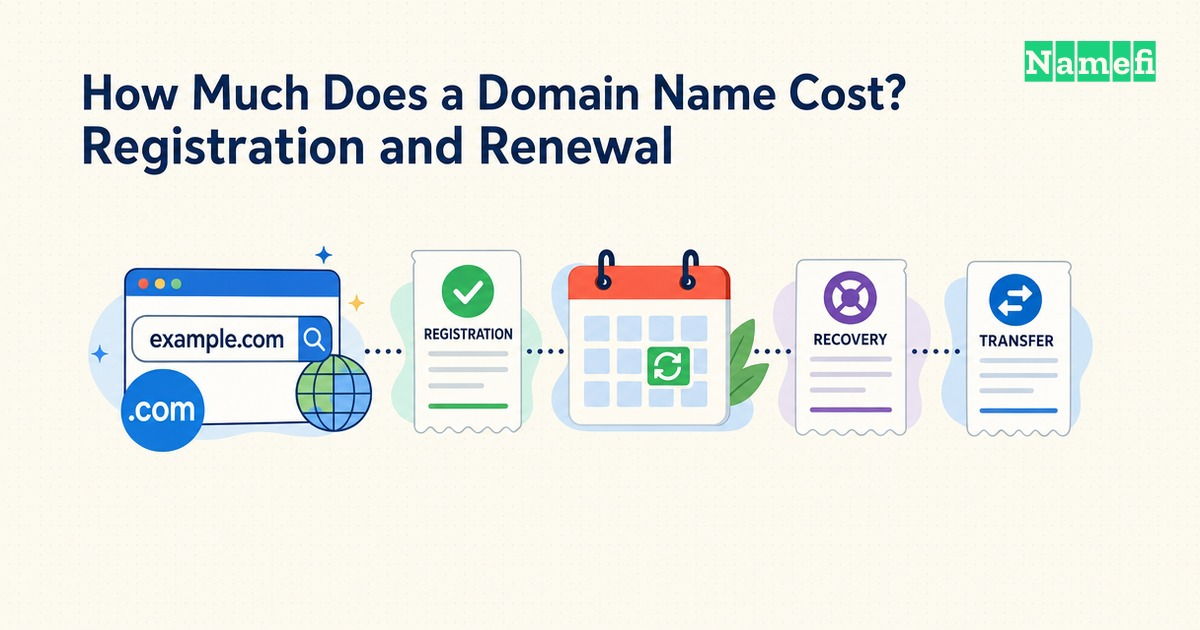
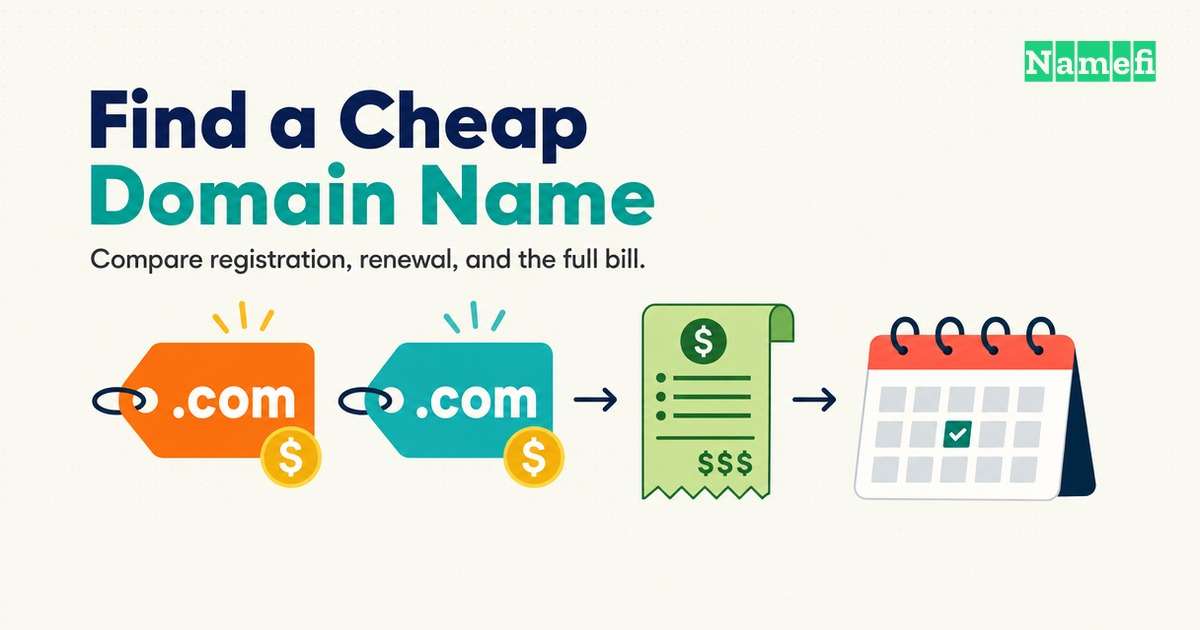
content: compare cheap domain purchases on equal terms [skip ci]

Changed region(s): [[0.0617, 0.3921, 0.925, 0.8143], [0.0617, 0.1206, 0.7708, 0.3619]]

diff --git a/content/blog/ta/how-much-is-a-domain-understanding-holding-cost.md b/content/blog/ta/how-much-is-a-domain-understanding-holding-cost.md
@@ -39,6 +39,16 @@ relatedGlossary:
 
 முதல் ஆண்டின் சலுகை விலை புதுப்பிப்பு விலையை நிர்ணயிக்காது. நீண்டகால [வைத்திருப்புச் செலவை](/ta/glossary/holding-cost/) ஒப்பிடுங்கள்.
 
+## ஒரே வாங்கும் நிபந்தனைகளை ஒப்பிட்டால் மலிவான டொமைனைத் தேர்ந்தெடுக்கலாம்
+
+ஒவ்வொரு பதிவாளரிடமும் ஒரே பெயர், நீட்சி, நாணயம், பதிவுக் காலம் ஆகியவற்றை ஒப்பிடுங்கள். பதிவுக் கட்டணத்தையும் புதுப்பிப்புக் கட்டணத்தையும் தனித்தனியாக எழுதுங்கள். பிரீமியம் பெயரைச் சாதாரண விலையுள்ள பெயருடன் ஒப்பிடாதீர்கள்.
+
+[Porkbun](https://porkbun.com/products/domains) பதிவு, புதுப்பிப்பு, இடமாற்ற விலைகளைத் தனித்தனி நெடுவரிசைகளில் வெளியிடுகிறது. [Cloudflare](https://www.cloudflare.com/domains/) பதிவு மற்றும் புதுப்பிப்பில் பதிவாளர் இலாபத்தைச் சேர்ப்பதில்லை என்று கூறுகிறது. Cloudflare தனது [பெயர் சேவையகங்களை](https://developers.cloudflare.com/registrar/get-started/register-domain/) பயன்படுத்த வேண்டும் என்று கோருகிறது. DNS தேர்வு சுதந்திரத்தை ஒப்பிடும்போது இந்த நிபந்தனையைக் கணக்கில் கொள்ளுங்கள்.
+
+குறைந்த மொத்தத் தொகையைத் தேர்ந்தெடுக்கும் முன் தேவையான சேவைகளின் செலவைச் சேருங்கள். இறுதி வாங்கும் பட்டியலில் வரிகளையும் விருப்பத் தயாரிப்புகளையும் சரிபாருங்கள். பதிவுச் சலுகை விலை மட்டும் நீண்ட காலத்தில் மலிவான தேர்வைக் காட்டாது.
+
+ஆதாரங்களைச் சரிபார்த்த நாள்: 22 அக்டோபர் 2026. விலைகளும் நிபந்தனைகளும் மாறலாம்.
+
 ## முதலில் காட்டப்படும் எண்ணே மொத்தச் செலவு அல்ல
 
 "ஒரு டொமைனுக்கு எவ்வளவு செலவாகும்?" என்று கேட்கும் பெரும்பாலோர் ஒரே ஒரு பதிலை எதிர்பார்க்கிறார்கள். அதைவிடச் சிறந்த கேள்வி: "இந்தப் பெயரை நான் மூன்று ஆண்டுகள் வைத்திருந்து, அந்தக் காலத்தில் ஒரு முறை ஏதாவது தவறு நேர்ந்தால், மொத்தமாக எவ்வளவு செலவாகும்?"

diff --git a/content/blog/hi/how-much-is-a-domain-understanding-holding-cost.md b/content/blog/hi/how-much-is-a-domain-understanding-holding-cost.md
@@ -39,6 +39,16 @@ relatedGlossary:
 
 पहले वर्ष का रियायती मूल्य नवीनीकरण का मूल्य तय नहीं करता। लंबे समय की [होल्डिंग लागत](/hi/glossary/holding-cost/) की तुलना करें।
 
+## एक जैसी खरीद की तुलना से सस्ता डोमेन मिल सकता है
+
+अलग-अलग रजिस्ट्रार पर एक ही नाम, एक्सटेंशन, मुद्रा और पंजीकरण अवधि की तुलना करें। पंजीकरण और नवीनीकरण की कीमतें अलग लिखें। प्रीमियम नाम की तुलना मानक कीमत वाले नाम से न करें।
+
+[Porkbun](https://porkbun.com/products/domains) पंजीकरण, नवीनीकरण और स्थानांतरण की कीमतें अलग स्तंभों में दिखाता है। [Cloudflare](https://www.cloudflare.com/domains/) के अनुसार पंजीकरण और नवीनीकरण में रजिस्ट्रार का अतिरिक्त लाभ नहीं जुड़ता। Cloudflare के लिए [Cloudflare नेमसर्वर](https://developers.cloudflare.com/registrar/get-started/register-domain/) जरूरी हैं। DNS बदलने की सुविधा की तुलना में इस शर्त को शामिल करें।
+
+सबसे कम कुल कीमत चुनने से पहले जरूरी सेवाओं का खर्च जोड़ें। अंतिम कार्ट में कर और वैकल्पिक उत्पाद जाँचें। केवल पंजीकरण की प्रचार कीमत से लंबे समय का सबसे सस्ता विकल्प तय नहीं होता।
+
+स्रोत जाँच की तारीख: 22 अक्टूबर 2026। कीमतें और शर्तें बदल सकती हैं।
+
 ## सबसे पहले दिखने वाली संख्या असली लागत नहीं है
 
 ज़्यादातर लोग पूछते हैं, “डोमेन की कीमत कितनी है?” और एक ही जवाब की उम्मीद करते हैं। बेहतर सवाल यह है: “अगर मैं इस नाम को तीन साल तक रखूं और एक बार कोई गड़बड़ी हो जाए, तो मुझे कुल कितना खर्च करना पड़ेगा?”

diff --git a/content/blog/ar/how-much-is-a-domain-understanding-holding-cost.md b/content/blog/ar/how-much-is-a-domain-understanding-holding-cost.md
@@ -39,6 +39,16 @@ relatedGlossary:
 
 سعر التسجيل المخفّض مش هو سعر التجديد. قارن [تكلفة الاحتفاظ](/ar/glossary/holding-cost/) قبل الدفع.
 
+## مقارنة نفس الشراء بتساعدك تلاقي دومين رخيص
+
+قارن نفس الاسم والامتداد والعملة ومدة التسجيل عند كل مُسجِّل. اكتب سعر التسجيل وسعر التجديد كل واحد لوحده. ما تقارنش اسم مميز باسم سعره عادي.
+
+[Porkbun](https://porkbun.com/products/domains) بيعرض التسجيل والتجديد والنقل في أعمدة منفصلة. [Cloudflare](https://www.cloudflare.com/domains/) بيقول إنه ما بيضيفش هامش ربح للمُسجِّل على التسجيل والتجديد. Cloudflare بيشترط استخدام [خوادم أسماء Cloudflare](https://developers.cloudflare.com/registrar/get-started/register-domain/). خُد الشرط ده في حسابك لما تقارن حرية اختيار خدمة DNS.
+
+ضيف تكلفة الخدمات اللي محتاجها قبل ما تختار أقل إجمالي. راجع الضرائب والمنتجات الاختيارية في سلة الشراء النهائية. سعر التسجيل الترويجي لوحده ما يحددش أرخص اختيار على المدى الطويل.
+
+راجعنا المصادر يوم 22 أكتوبر 2026. الأسعار والشروط ممكن تتغير.
+
 ## الرقم اللي بتشوفه الأول مش هو التكلفة
 
 أغلب الناس بتسأل: "الدومين بكام؟" وبتتوقع إجابة واحدة. السؤال الأحسن هو: "الاسم ده هيكلّفني كام لو احتفظت بيه 3 سنين وحصلت مشكلة مرة؟"

diff --git a/content/blog/ja/how-much-is-a-domain-understanding-holding-cost.md b/content/blog/ja/how-much-is-a-domain-understanding-holding-cost.md
@@ -39,6 +39,16 @@ relatedGlossary:
 
 初年度の割引価格だけでは更新料金は分かりません。長期の[保有コスト](/ja/glossary/holding-cost/)を比較してください。
 
+## 同じ購入条件を比べると安いドメインを選べます
+
+同じ名前、拡張子、通貨、登録期間でレジストラを比較してください。登録料金と更新料金を別々に記録してください。プレミアム名と標準価格の名前を混ぜて比較しないでください。
+
+[Porkbun](https://porkbun.com/products/domains) は登録、更新、移管の料金を別々の列に掲載しています。[Cloudflare](https://www.cloudflare.com/domains/) は登録と更新にレジストラの利益を上乗せしないと説明しています。Cloudflare は [Cloudflare のネームサーバー](https://developers.cloudflare.com/registrar/get-started/register-domain/)の使用を求めます。DNS の自由度を比較する際は、この条件を考慮してください。
+
+必要なサービスを加えてから、最も低い合計額を選んでください。最終的なカートで税金と任意の製品を確認してください。登録時の割引だけでは、長期的に最も安い選択肢は分かりません。
+
+出典確認日：2026年10月22日。価格や条件は変更される場合があります。
+
 ## 最初に目にする数字がコストとは限らない
 
 多くの人は「ドメインはいくら？」と尋ね、一つの答えを期待します。より適切な問いは、「この名前を三年間保有し、その間に一度問題が起きたら、いくらかかるのか？」です。

diff --git a/content/blog/ko/how-much-is-a-domain-understanding-holding-cost.md b/content/blog/ko/how-much-is-a-domain-understanding-holding-cost.md
@@ -39,6 +39,16 @@ relatedGlossary:
 
 첫해 할인 가격만으로 갱신 가격을 알 수는 없습니다. 장기적인 [보유 비용](/ko/glossary/holding-cost/)을 비교하세요.
 
+## 같은 구매 조건을 비교하면 저렴한 도메인을 찾을 수 있습니다
+
+등록대행자마다 정확히 같은 이름, 확장자, 통화, 등록 기간을 비교하세요. 등록 가격과 갱신 가격을 따로 기록하세요. 프리미엄 이름과 일반 가격 이름을 섞어서 비교하지 마세요.
+
+[Porkbun](https://porkbun.com/products/domains)은 등록, 갱신, 이전 가격을 별도 열로 게시합니다. [Cloudflare](https://www.cloudflare.com/domains/)는 등록과 갱신에 등록대행자 마진을 더하지 않는다고 설명합니다. Cloudflare는 [Cloudflare 네임서버](https://developers.cloudflare.com/registrar/get-started/register-domain/) 사용을 요구합니다. DNS 선택의 자유를 비교할 때 이 조건을 고려하세요.
+
+필요한 서비스를 추가한 뒤 가장 낮은 총액을 선택하세요. 최종 장바구니에서 세금과 선택 상품을 확인하세요. 등록 프로모션 가격만으로 장기적으로 가장 저렴한 선택을 판단할 수는 없습니다.
+
+출처 확인일: 2026년 10월 22일. 가격과 조건은 변경될 수 있습니다.
+
 ## 처음 보이는 숫자가 실제 비용은 아니다
 
 대부분의 사람은 “도메인 가격은 얼마인가?”라고 묻고 하나의 답을 기대합니다. 더 나은 질문은 “이 이름을 삼 년 동안 보유하고 한 번 문제가 생긴다면 비용이 얼마일까?”입니다.

diff --git a/content/blog/fr/how-much-is-a-domain-understanding-holding-cost.md b/content/blog/fr/how-much-is-a-domain-understanding-holding-cost.md
@@ -39,6 +39,16 @@ C’est la première chose à comprendre avant d’enregistrer un nom. Le prix a
 
 Le prix promotionnel du premier enregistrement ne détermine pas le prix du renouvellement. Comparez le [coût de détention](/fr/glossary/holding-cost/) à long terme.
 
+## Vous trouvez un domaine bon marché en comparant le même achat
+
+Comparez le même nom, la même extension, la même devise et la même durée chez chaque registrar. Notez séparément l’enregistrement et le renouvellement. Ne comparez pas un nom premium à un nom au tarif standard.
+
+[Porkbun](https://porkbun.com/products/domains) publie des colonnes distinctes pour l’enregistrement, le renouvellement et le transfert. [Cloudflare](https://www.cloudflare.com/domains/) déclare ne pas ajouter de marge aux enregistrements et renouvellements. Cloudflare impose [ses serveurs de noms](https://developers.cloudflare.com/registrar/get-started/register-domain/). Tenez compte de cette exigence pour comparer la souplesse du DNS.
+
+Ajoutez les services nécessaires avant de choisir le total le plus bas. Vérifiez les taxes et produits facultatifs dans le panier final. Un tarif promotionnel ne suffit pas pour déterminer l’option la moins chère à long terme.
+
+Sources consultées le 22 octobre 2026. Les prix et conditions peuvent changer.
+
 ## Le premier chiffre affiché n’est pas le coût
 
 La plupart des gens demandent « combien coûte un domaine ? » et attendent une seule réponse. Une meilleure question est : « Combien ce nom me coûtera-t-il si je le garde trois ans et qu’un problème survient une fois ? »

diff --git a/content/blog/de/how-much-is-a-domain-understanding-holding-cost.md b/content/blog/de/how-much-is-a-domain-understanding-holding-cost.md
@@ -39,6 +39,16 @@ Das ist das Erste, was du verstehen solltest, bevor du einen Namen registrierst.
 
 Ein günstiger Registrierungspreis bestimmt nicht den Verlängerungspreis. Vergleiche die langfristigen [Haltekosten](/de/glossary/holding-cost/).
 
+## Du findest eine günstige Domain durch den Vergleich desselben Kaufs
+
+Vergleiche bei Registraren denselben Namen, dieselbe Endung, Währung und Registrierungsdauer. Notiere Registrierung und Verlängerung getrennt. Vergleiche keinen Premiumnamen mit einem Namen zum Standardpreis.
+
+[Porkbun](https://porkbun.com/products/domains) veröffentlicht getrennte Spalten für Registrierung, Verlängerung und Transfer. [Cloudflare](https://www.cloudflare.com/domains/) erklärt, Registrierung und Verlängerung ohne Registraraufschlag anzubieten. Cloudflare verlangt [Cloudflare-Nameserver](https://developers.cloudflare.com/registrar/get-started/register-domain/). Berücksichtige diese Vorgabe beim Vergleich der DNS-Flexibilität.
+
+Addiere die benötigten Dienste, bevor du die niedrigste Gesamtsumme auswählst. Prüfe Steuern und optionale Produkte im Warenkorb. Ein Registrierungsrabatt allein zeigt nicht die langfristig günstigste Option.
+
+Quellen am 22. Oktober 2026 geprüft. Preise und Bedingungen können sich ändern.
+
 ## Die Zahl, die du zuerst siehst, ist nicht der Preis
 
 Die meisten Menschen fragen: „Was kostet eine Domain?“ und erwarten eine einzige Antwort. Die bessere Frage lautet: „Was kostet mich dieser Name, wenn ich ihn drei Jahre behalte und einmal etwas schiefgeht?“

diff --git a/content/blog/es/how-much-is-a-domain-understanding-holding-cost.md b/content/blog/es/how-much-is-a-domain-understanding-holding-cost.md
@@ -39,6 +39,16 @@ Eso es lo primero que conviene entender antes de registrar un nombre. El precio 
 
 El precio promocional del registro no determina el precio de renovación. Compara el [Costo de mantenimiento](/es/glossary/holding-cost/) a largo plazo.
 
+## Puedes encontrar un dominio barato comparando la misma compra
+
+Compara el nombre exacto, la extensión, la moneda y el plazo de registro entre registradores. Anota el registro y la renovación por separado. No compares un nombre premium con uno de precio estándar.
+
+[Porkbun](https://porkbun.com/products/domains) publica columnas separadas de registro, renovación y transferencia. [Cloudflare](https://www.cloudflare.com/domains/) afirma que no añade margen al registro ni a la renovación. Cloudflare exige [sus servidores de nombres](https://developers.cloudflare.com/registrar/get-started/register-domain/). Considera ese requisito al comparar la flexibilidad de DNS.
+
+Añade los servicios necesarios antes de elegir el total más bajo. Revisa los impuestos y productos opcionales del carrito final. Una promoción de registro no identifica por sí sola la opción más barata a largo plazo.
+
+Fuentes consultadas el 22 de octubre de 2026. Los precios y condiciones pueden cambiar.
+
 ## El primer número que ves no es el costo
 
 La mayoría de las personas pregunta «¿cuánto cuesta un dominio?» y espera una sola respuesta. Una pregunta mejor es: «¿Cuánto me costará este nombre si lo conservo durante tres años y algo sale mal una vez?»

diff --git a/content/blog/en/how-much-is-a-domain-understanding-holding-cost.md b/content/blog/en/how-much-is-a-domain-understanding-holding-cost.md
@@ -39,6 +39,16 @@ That is the first thing to understand before you register a name. The checkout p
 
 A promotional first year can be legitimate and still lead to a higher annual commitment. Compare both prices before checkout to understand the long-term [holding cost](/en/glossary/holding-cost/).
 
+## You can find a cheap domain by comparing the same purchase
+
+Compare the exact name, extension, currency, and registration term across registrars. Record registration and renewal separately. Reject a comparison that mixes a premium name with a standard name.
+
+[Porkbun](https://porkbun.com/products/domains) publishes separate registration, renewal, and transfer columns. [Cloudflare](https://www.cloudflare.com/domains/) states that registration and renewal have no registrar markup. Cloudflare requires [Cloudflare nameservers](https://developers.cloudflare.com/registrar/get-started/register-domain/). Include that requirement when comparing DNS flexibility.
+
+Add the services you need before choosing the lowest total. Check the final cart for taxes and optional products. A promotional registration price alone cannot identify the cheapest long-term option.
+
+Sources checked on October 22, 2026. Quotes and terms can change.
+
 ## The number you see first is not the cost
 
 ![Compare registration and renewal alongside transfer and recovery charges.](../../assets/how-much-is-a-domain-understanding-holding-cost-01-bills.jpg)

diff --git a/content/blog/zh-CN/how-much-is-a-domain-understanding-holding-cost.md b/content/blog/zh-CN/how-much-is-a-domain-understanding-holding-cost.md
@@ -39,6 +39,16 @@ relatedGlossary:
 
 首年优惠不决定续期价格。买家应比较长期[持有成本](/zh-CN/glossary/holding-cost/)。
 
+## 同条件比较能帮助买家寻找便宜域名
+
+买家应比较同一个名称、后缀、币种和注册期限。买家应分别记录注册价和续期价。买家不应混比溢价名称和标准价名称。
+
+[Porkbun](https://porkbun.com/products/domains) 分列注册价、续期价和转入价。[Cloudflare](https://www.cloudflare.com/domains/) 表示注册和续期不加注册商利润。Cloudflare 要求使用 [Cloudflare 域名服务器](https://developers.cloudflare.com/registrar/get-started/register-domain/)。买家应把域名服务器要求纳入 DNS 灵活性比较。
+
+买家应先加上所需服务，再比较总价。买家应检查最终购物车的税费和可选产品。注册促销价不能单独证明长期费用最低。
+
+来源核查日期：2026年10月22日。价格和条款可能变化。
+
 ## 你最先看到的数字并不等于成本
 
 大多数人会问“域名多少钱？”，并期待得到一个答案。更好的问题是：“如果我持有这个域名三年，并且期间出一次问题，它总共会花多少钱？”
